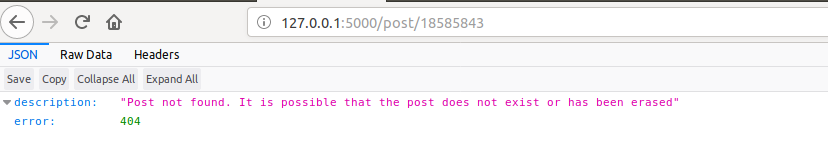
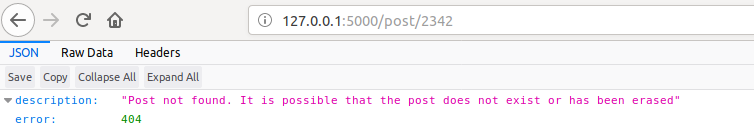
Updated error images

diff --git a/api/posts/README.md b/api/posts/README.md
@@ -45,10 +45,40 @@ Posibles Rutas: /posts/
 ## /posts/
 
 - /posts/ Se encarga de traer la información de todos los posts existentes. 
-- ![](readme_images/all_posts.png)
+
+	![](readme_images/all_posts.png)
+
+## /post/<int:id>
+- /post/<int:id> Se encarga de traer la información de un post en específico. Sirve para cuando se quieren ver los detalles del post que alguien más publicó. 
+	
+	![](readme_images/post_details.png)
+
+## /post/<string:username>
+- /post/<string:username> Se encarga de traer todos los posts que haya publicado un usuario en específico. Sirve para ver tanto los posts que tú mismo has publicado como los posts que cualquier otro usuario tendría en su perfil. 
+
+	![](/readme_images/posts_username.png)
 
 # Errores
 
+- A la hora de acceder a los endpoints, es posible que la información que mandemos sea incorrecta. Por esto mismo, los siguientes errores se encargan de enviar la información de que no se recibió lo esperado:
+
+Código de error  | ErrorType (e.name)
+------------- | -------------
+103  | id provided is not a number
+404  | Post not found. Possible erased or non-existant
+601  | User does not exist
+
+## Error 103: 
+
+	![](readme_files/not_a_number.png)
+
+## Error 404:
+
+	![](readme_files/unexistant_post_id.png)
+
+## Error 601:
+
+	![](readme_files/unexistent_user.png)
 
 # Contribuir con el API
 
